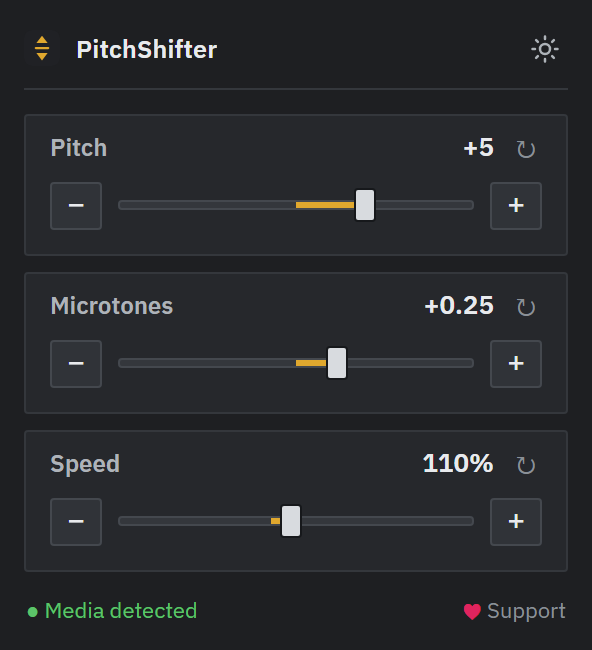
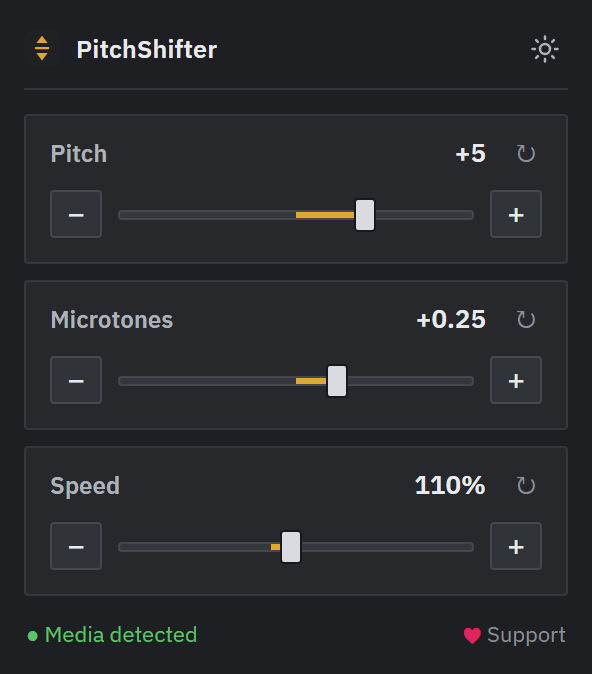
Make values editable: click a number to type it directly

diff --git a/popup/popup.js b/popup/popup.js
@@ -44,9 +44,9 @@ function render() {
     pitchSlider.value = String(pitch);
     microSlider.value = String(micro);
     speedSlider.value = String(speed);
-    pitchValue.textContent = (pitch > 0 ? "+" : "") + pitch;
-    microValue.textContent = (micro > 0 ? "+" : "") + micro.toFixed(2);
-    speedValue.textContent = Math.round(speed * 100) + "%";
+    pitchValue.value = (pitch > 0 ? "+" : "") + pitch;
+    microValue.value = (micro > 0 ? "+" : "") + micro.toFixed(2);
+    speedValue.value = Math.round(speed * 100) + "%";
     fillSlider(pitchSlider, pitch, -12, 12, 0);
     fillSlider(microSlider, micro, -1, 1, 0);
     fillSlider(speedSlider, speed, 0.25, 2, 1);
@@ -118,6 +118,39 @@ document
 document
     .getElementById("speedReset")
     .addEventListener("click", () => setSpeed(1));
+
+// Click a value to type it directly. On focus show the raw number; on Enter
+// or blur parse it, clamp, and reformat. Escape restores.
+function wireValueInput(el, kind) {
+    el.addEventListener("focus", () => {
+        el.value =
+            kind === "pitch"
+                ? String(pitch)
+                : kind === "micro"
+                  ? String(micro)
+                  : String(Math.round(speed * 100));
+        el.select();
+    });
+    el.addEventListener("keydown", (e) => {
+        if (e.key === "Enter") {
+            e.preventDefault();
+            el.blur();
+        } else if (e.key === "Escape") {
+            e.preventDefault();
+            render();
+            el.blur();
+        }
+    });
+    el.addEventListener("blur", () => {
+        const num = parseFloat(el.value.replace(/[^0-9.\-]/g, ""));
+        if (kind === "pitch") setPitch(Number.isFinite(num) ? num : pitch);
+        else if (kind === "micro") setMicro(Number.isFinite(num) ? num : micro);
+        else setSpeed(Number.isFinite(num) ? num / 100 : speed);
+    });
+}
+wireValueInput(pitchValue, "pitch");
+wireValueInput(microValue, "micro");
+wireValueInput(speedValue, "speed");
 
 function setStatus(hasMedia) {
     if (hasMedia) {

diff --git a/popup/popup.html b/popup/popup.html
@@ -52,7 +52,14 @@
       <div class="ghead">
         <span class="glabel">Pitch</span>
         <span class="gright">
-          <span class="val" id="pitchValue">0</span>
+          <input
+            class="val"
+            id="pitchValue"
+            type="text"
+            inputmode="decimal"
+            aria-label="Pitch value"
+            value="0"
+          />
           <button class="reset" id="pitchReset" title="Reset pitch">&#x21BB;</button>
         </span>
       </div>
@@ -67,7 +74,14 @@
       <div class="ghead">
         <span class="glabel">Microtones</span>
         <span class="gright">
-          <span class="val" id="microValue">0.00</span>
+          <input
+            class="val"
+            id="microValue"
+            type="text"
+            inputmode="decimal"
+            aria-label="Microtones value"
+            value="0.00"
+          />
           <button class="reset" id="microReset" title="Reset microtones">&#x21BB;</button>
         </span>
       </div>
@@ -82,7 +96,14 @@
       <div class="ghead">
         <span class="glabel">Speed</span>
         <span class="gright">
-          <span class="val" id="speedValue">100%</span>
+          <input
+            class="val"
+            id="speedValue"
+            type="text"
+            inputmode="decimal"
+            aria-label="Speed value (percent)"
+            value="100%"
+          />
           <button class="reset" id="speedReset" title="Reset speed">&#x21BB;</button>
         </span>
       </div>

diff --git a/popup/popup.css b/popup/popup.css
@@ -205,10 +205,29 @@ body {
 }
 
 .val {
+  width: 54px;
+  padding: 1px 3px;
+  border: 1px solid transparent;
+  border-radius: var(--r);
+  background: transparent;
+  color: var(--text);
+  font-family: inherit;
   font-size: 13px;
   font-weight: 600;
   font-variant-numeric: tabular-nums;
-  color: var(--text);
+  text-align: right;
+  cursor: text;
+  -webkit-appearance: none;
+  appearance: none;
+}
+
+.val:hover {
+  border-color: var(--line-2);
+}
+
+.val:focus {
+  outline: none;
+  border-color: var(--accent);
 }
 
 .reset {
